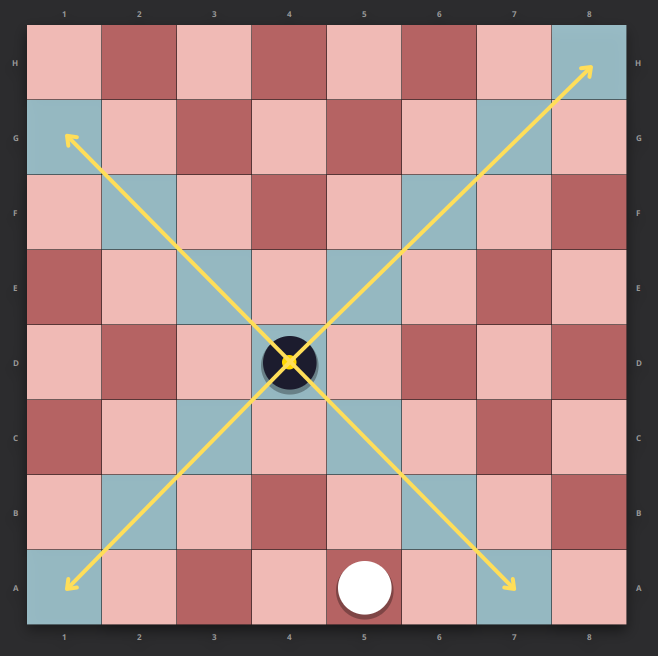
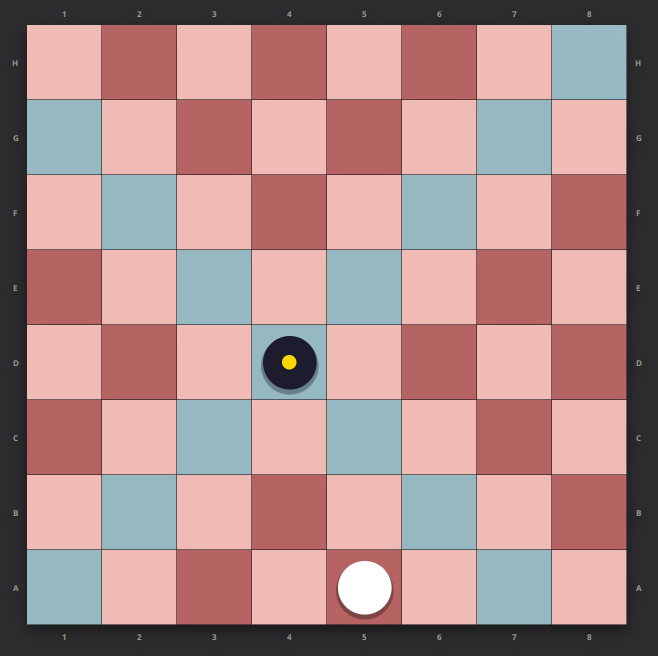
report / corrected first section

diff --git a/pdp/02-final/report.tex b/pdp/02-final/report.tex
@@ -46,13 +46,26 @@
 
 \section{Contexte et objectifs du projet}
 
-Le projet a pour objectif de concevoir et développer un logiciel permettant de jouer au jeu de
-dames conformément aux règles officielles. Le programme doit permettre à deux joueurs de
-s'affronter sur un damier, soit en mode local, soit à distance via un réseau.
+\subsection{Historique}
 
-Le logiciel garantit le respect strict des règles du jeu tout en proposant une expérience
-utilisateur claire, robuste et extensible. Il s'inscrit dans une démarche de développement
-logiciel complète, intégrant la qualité du code, la documentation, les tests et les performances.
+Le jeu de dames est l'un des plus anciens jeux de plateau stratégiques, dont les origines remontent à plusieurs millénaires dans les civilisations méditerranéennes. 
+Perfectionné au fil des siècles, il a acquis ses règles modernes en Europe au cours du Moyen-Âge et fait aujourd'hui l'objet de compétitions internationales officielles régies par la Fédération Mondiale du Jeu de Dames (FMJD).
+
+\subsection{Présentation du jeu}
+Le jeu de dames est un jeu de stratégie abstraite opposant deux joueurs sur un plateau quadrillé. 
+Chaque joueur manœuvre ses pièces en diagonale dans le but de capturer l'intégralité des pièces 
+adverses ou de les immobiliser. Sa simplicité d'accès contraste avec la profondeur tactique qu'il 
+offre : la gestion des prises obligatoires, les enchaînements de captures multiples et la promotion 
+des pions en dames confèrent au jeu une richesse stratégique appréciée aussi bien des joueurs 
+occasionnels que des compétiteurs de haut niveau.
+
+\subsection{Objectifs du projet}
+
+Le projet a pour objectif de concevoir et développer un logiciel permettant de jouer au jeu de dames conformément aux règles officielles. 
+Le programme doit permettre à deux joueurs de s'affronter sur un damier, soit en mode local, soit à distance via un réseau.
+
+Le logiciel garantit le respect strict des règles du jeu tout en proposant une expérience utilisateur claire, robuste et extensible. 
+Il s'inscrit dans une démarche de développement logiciel complète, intégrant la qualité du code, la documentation, les tests et les performances.
 
 \subsection{Variantes supportées}
 \label{sec:variantes}
@@ -62,6 +75,8 @@ une option de configuration du plateau. Le style anglo-saxon, appelé Draughts, 
 chaque joueur disposant de 12 pions. Le jeu de dames international adopte quant à lui un plateau de 10×10, 
 avec 20 pions par joueur. Enfin, les dames canadiennes étendent encore la surface de jeu avec un plateau de 12×12, 
 portant le nombre de pions à 30 par joueur.
+
+\noindent\textit{Les images suivantes ont été obtenues à l'aide de notre implémentation. }
 
 \begin{figure}[h]
     \centering
@@ -116,75 +131,78 @@ aussi bien vers l'avant que vers l'arrière.
 \end{figure}
 \FloatBarrier
 
+\noindent\textit{Les cases surlignées en bleu indiquent les déplacements possibles de la pièce sélectionnée. }
+
 \subsubsection{La prise par un pion}
 \label{sec:prise-pion}
-
 Un pion capture un pion adverse en sautant par-dessus lui pour se poser sur la case vide
 située immédiatement derrière. La prise peut s'effectuer vers l'avant comme vers l'arrière.
-
 \textbf{La prise est obligatoire.} De plus, si après une capture le pion se retrouve à nouveau
 en position de prise, il doit continuer jusqu'à épuisement des captures possibles (rafle). Les
 pions capturés sont retirés du plateau uniquement à l'issue complète de la rafle, et non au fur
-et à mesure.
+et à mesure. La figure~\ref{fig:prise-pion} illustre le mécanisme de prise simple, tandis que 
+la figure~\ref{fig:rafle} montre un exemple de rafle enchaînant plusieurs captures successives.
 
-\begin{figure} [h]
-    \centering
-    \begin{minipage}{0.3\textwidth}
-        \centering
-        \includegraphics[width=\textwidth]{img_report/pawn_capture.png}
-        \caption{Prise d'un pion}
-    \end{minipage}
-    \hspace{1cm}
-    \begin{minipage}{0.3\textwidth}
-        \centering
-        \includegraphics[width=\textwidth]{img_report/rafle.png}
-        \caption{Rafle}
-    \end{minipage}
+\begin{figure}[h]
+\centering
+  \begin{minipage}{0.3\textwidth}
+  \centering
+  \includegraphics[width=\textwidth]{img_report/pawn_capture.png}
+  \caption{Prise d'un pion}
+  \label{fig:prise-pion}
+  \end{minipage}
+\hspace{1cm}
+  \begin{minipage}{0.3\textwidth}
+  \centering
+  \includegraphics[width=\textwidth]{img_report/rafle.png}
+  \caption{Rafle}
+  \label{fig:rafle}
+  \end{minipage}
 \end{figure}
 \FloatBarrier
 
 \subsubsection{La prise majoritaire}
 \label{sec:prise-majoritaire}
-
 Lorsque plusieurs séquences de capture sont possibles, le joueur est tenu de choisir celle qui
-capture le plus grand nombre de pièces, quel que soit leur rang. Ainsi, une séquence permettant
-de prendre deux pions est prioritaire sur la prise d'une dame isolée.
-
-\begin{figure} [h]
-    \centering
-    \begin{minipage}{0.3\textwidth}
-        \centering
-        \includegraphics[width=\textwidth]{img_report/majority_capture.png}
-        \caption{Prise majoritaire~: 2 pions vs 1 dame}
-    \end{minipage}
-\end{figure}
-\FloatBarrier
+capture le plus grand nombre de pièces, quel que soit leur rang. Ainsi, comme l'illustre la 
+figure~\ref{fig:prise-majoritaire}, une séquence permettant de prendre deux pions est prioritaire 
+sur la prise d'une dame isolée.
 
 \subsubsection{La prise par la dame}
 \label{sec:prise-dame}
-
 Grâce à son amplitude de mouvement, la dame dispose de capacités de capture étendues. Elle doit
 prendre tout pion situé sur sa diagonale dès lors qu'une case libre est disponible
-immédiatement après. On ne peut passer qu'une seule fois sur un même pion, mais on peut traverser deux
-fois la même case.
+immédiatement après. On ne peut passer qu'une seule fois sur un même pion, mais on peut traverser 
+deux fois la même case. La figure~\ref{fig:prise-dame} présente un exemple de prise par la dame, 
+et la figure~\ref{fig:prise-dame-case} illustre le cas particulier où la dame repasse sur une 
+case déjà traversée au cours de sa rafle.
 
-\begin{figure} [h]
-    \centering
-    \begin{minipage}{0.3\textwidth}
-        \centering
-        \includegraphics[width=\textwidth]{img_report/capture_checker.png}
-        \caption{Prise par la dame}
-    \end{minipage}
-    \hspace{1cm}
-    \begin{minipage}{0.3\textwidth}
-        \centering
-        \includegraphics[width=\textwidth]{img_report/capture_checker_2.png}
-        \caption{Prise par la dame avec passage sur une même case}
-    \end{minipage}
+\begin{figure}[h]
+\centering
+  \begin{minipage}{0.3\textwidth}
+  \centering
+    \includegraphics[width=\textwidth]{img_report/capture_checker.png}
+    \caption{Prise par la dame}
+    \label{fig:prise-dame}
+  \end{minipage}
+  \hfill
+  \begin{minipage}{0.3\textwidth}
+  \centering
+    \includegraphics[width=\textwidth]{img_report/capture_checker_2.png}
+    \caption{Prise par la dame avec passage sur une même case}
+    \label{fig:prise-dame-case}
+  \end{minipage}
+  \hfill
+  \begin{minipage}{0.3\textwidth}
+  \centering
+    \includegraphics[width=\textwidth]{img_report/majority_capture.png}
+    \caption{Prise majoritaire~: 2 pions vs 1 dame}
+    \label{fig:prise-majoritaire}
+  \end{minipage}
 \end{figure}
 \FloatBarrier
 
-\subsection{Conditions de fin de partie}
+\subsubsection{Conditions de fin de partie}
 
 Une partie prend fin dans l'un des cas suivants :
 
@@ -853,49 +871,97 @@ immuables. Enfin, la \texttt{GameControllerFactory}, interface fonctionnelle,
 permet d'instancier un contrôleur de jeu isolé pour chaque session, garantissant
 l'indépendance des états de parties concurrentes.
 
-\section{Intelligence Artificielle}
+\subsection{Module Intelligence Artificielle}
+\label{sec:ai}
 
-\subsection{SimpleEvaluator}
+\sloppy Le module IA repose sur une séparation nette entre trois responsabilités. D'abord, la classe abstraite \texttt{Ai} fournit l'ossature commune : elle valide les paramètres, crée une copie du plateau de recherche, instancie un \texttt{ManagerUndoRedo} dédié et délègue le calcul du meilleur coup aux algorithmes concrets. Ensuite, \texttt{GameCheckers} agit comme point d'assemblage en appelant \texttt{Ai.buildAi(cfg, ...)} et \texttt{Ai.buildEvaluator(cfg)} à partir de la configuration courante. Enfin, \texttt{AiPlayer} encapsule l'algorithme et l'évaluateur pour exposer une seule méthode \texttt{getBestMove(...)}, ce qui évite de disperser la logique de décision dans le reste du moteur.
 
-La classe \texttt{SimpleEvaluator} peut être vue comme une balance très basique : elle compte simplement
-le "matériel" sur le plateau, c'est-à-dire combien de pions et de dames possède chaque joueur.
-Si les blancs ont plus de pièces fortes, le score monte ; si les noirs sont avantagés, le score baisse.
-Cette approche est facile à comprendre, rapide, mais elle ne tient pas compte de la position stratégique des pièces.
+Les classes d'évaluation \texttt{SimpleEvaluator}, \texttt{AdvancedEvaluator} et \texttt{MaxEvaluator} implémentent la même interface \texttt{Evaluator} mais avec des heuristiques de coût croissant. Elles sont consommées par les algorithmes de recherche pour donner une valeur aux feuilles de l'arbre. De son côté, \texttt{Mcts} n'utilise pas cette heuristique dans sa sélection principale, mais il reste compatible avec la même signature afin de pouvoir être instancié par le même pipeline que les autres IA.
 
-\subsection{AdvancedEvaluator}
+\begin{figure}[h]
+  \centering
+  \makebox[\textwidth][c]{
+    \begin{tikzpicture}[scale=0.8, transform shape, node distance=1.1cm and 1.4cm, >=Stealth]
+      \node[draw, rounded corners, align=center, fill=gray!10, minimum width=3.2cm] (cfg)
+      {Configuration\\\scriptsize modes, profondeur, temps, scoring};
 
-La classe \texttt{AdvancedEvaluator} reprend cette idée de balance, mais ajoute une intuition naturelle du jeu
-de dames : un pion qui avance vers la promotion devient plus dangereux. En pratique, cette classe récompense
-les pions qui progressent vers la dernière rangée. Elle reste simple, mais elle joue déjà plus "intelligemment"
-qu'un simple comptage de pièces.
+      \node[draw, rounded corners, align=center, fill=blue!10, right=of cfg, minimum width=3.0cm] (game)
+      {GameCheckers\\\scriptsize instanciation};
 
-\subsection{MaxEvaluator}
+      \node[draw, rounded corners, align=center, fill=blue!10, right=of game, minimum width=2.8cm] (player)
+      {AiPlayer\\\scriptsize delegation};
 
-La classe \texttt{MaxEvaluator} va encore plus loin. En plus du matériel et de l'avancement, elle valorise
-le contrôle du centre du damier et la mobilité (le nombre de coups légaux disponibles). Intuitivement,
-un joueur qui contrôle le centre et qui garde beaucoup d'options est souvent en meilleure posture.
-Cette évaluation est plus riche et souvent plus précise, mais elle demande davantage de calcul.
+      \node[draw, rounded corners, align=center, fill=green!12, below=of player, minimum width=2.8cm] (ai)
+      {Ai\\\scriptsize getBestMove()};
 
-\subsection{MinMax}
+      \node[draw, rounded corners, align=center, fill=orange!14, right=of ai, minimum width=3.4cm] (search)
+      {MinMax / AlphaBeta\\IterativeDeepening / Mcts};
 
-La classe \texttt{MinMax} représente la logique "je joue un coup, puis j'anticipe la meilleure réponse adverse".
-L'algorithme explore un arbre de possibilités en alternant les deux joueurs : il suppose que l'adversaire joue bien,
-et il cherche le coup qui reste le plus favorable malgré cela. Cette méthode donne des décisions solides,
-mais son coût augmente rapidement quand on approfondit la recherche.
+      \node[draw, rounded corners, align=center, fill=yellow!18, below=of search, minimum width=3.4cm] (eval)
+      {Evaluator\\\scriptsize Simple / Advanced / Max};
 
-\subsection{MinMaxAlphaBeta}
+      \node[draw, rounded corners, align=center, fill=red!12, right=of search, minimum width=3.6cm] (ml)
+      {SelectionMode\\\scriptsize UCT / ML\\LogisticRegressionTrainer};
 
-La classe \texttt{MinMaxAlphaBeta} suit exactement la même philosophie que MinMax, mais elle évite de calculer
-des branches qui ne pourront de toute façon pas changer la décision finale. On peut l'imaginer comme une lecture
-intelligente d'un arbre où l'on saute les chapitres déjà "perdus d'avance". Le résultat reste de même qualité,
-mais le temps de calcul peut être fortement réduit.
+      \draw[-{Stealth}] (cfg) -- (game);
+      
+      % On trace la flèche normalement
+      \draw[-{Stealth}] (game) -- (player);
+      
+      % On ajoute le texte spécifiquement à droite du noeud player
+      \node[right=0.2cm of player, font=\scriptsize, align=left, text=pdp-teal800] {setAlgorithm /\\ setEvaluator};
+      
+      \draw[-{Stealth}] (player) -- node[right, font=\scriptsize]{d\'el\'egation} (ai);
+      \draw[-{Stealth}] (ai) -- (search);
+      \draw[-{Stealth}, dashed] (search) -- node[right, font=\scriptsize]{heuristique} (eval);
+      \draw[-{Stealth}] (search) -- (ml);
+    \end{tikzpicture}
+  }
+  \caption{Cha\^ine de d\'ependance du module Intelligence Artificielle}
+  \label{fig:ia-dependencies}
+\end{figure}
 
-\subsection{IterativeDeepening}
+\subsubsection{SimpleEvaluator}
 
-La classe \texttt{IterativeDeepening} applique une stratégie très pratique en contexte réel : elle commence
-par une recherche peu profonde (rapide), puis recommence avec une profondeur plus grande, et ainsi de suite,
-jusqu'à épuisement du temps autorisé. L'avantage est qu'on dispose toujours d'un coup jouable, même si la recherche
-complète la plus profonde n'a pas le temps de se terminer.
+\texttt{SimpleEvaluator} est l'heuristique la plus légère du module. Son implémentation parcourt toutes les cases actives du plateau via \texttt{board.getIndexMax()} et interroge directement les bitboards avec \texttt{isBitWhitePawn}, \texttt{isBitBlackPawn}, \texttt{isBitWhiteChecker} et \texttt{isBitBlackChecker}. Chaque pion vaut 100 points et chaque dame 350 points ; le score final est positif si la position favorise les blancs et négatif si elle favorise les noirs.
+
+Cette classe n'a pas de dépendance métier lourde : elle ne consulte ni l'historique, ni les coups légaux, ni le système d'annulation. Elle sert donc de base de comparaison pour les recherches MinMax et comme option de configuration quand on veut une évaluation rapide et déterministe.
+
+\subsubsection{AdvancedEvaluator}
+
+\texttt{AdvancedEvaluator} reprend la logique matérielle de \texttt{SimpleEvaluator}, mais ajoute un bonus de progression pour les pions. Pour calculer ce bonus, la classe reconstruit la ligne de chaque case à partir de l'indice courant et de la taille du plateau, puis ajoute ou retire un bonus d'avancement proportionnel à la distance parcourue vers la promotion. Les dames gardent leur valeur fixe, ce qui permet de conserver une heuristique lisible tout en intégrant une notion de dynamique de partie.
+
+En pratique, cette classe est utile pour les variantes où l'on veut un MinMax un peu plus sensible au développement des pions sans payer le coût des calculs de mobilité. Elle reste autonome vis-à-vis des autres classes du moteur et ne dépend que de \texttt{Board} pour récupérer la géométrie du plateau.
+
+\subsubsection{MaxEvaluator}
+
+\texttt{MaxEvaluator} est l'heuristique la plus coûteuse du trio. Elle combine d'abord le comptage matériel et le bonus d'avancement, puis ajoute deux critères stratégiques supplémentaires : le contrôle du centre et la mobilité. Le centre est détecté par la méthode privée \texttt{isInCenter(...)} à partir des coordonnées ligne/colonne, tandis que la mobilité est évaluée en appelant \texttt{board.getWhiteValidMoves()} et \texttt{board.getBlackValidMoves()}.
+
+Cette classe introduit donc une dépendance forte vers le moteur de génération de coups de \texttt{Board}. Contrairement aux deux autres évaluateurs, elle peut déclencher une exploration de coups complète lors du calcul du score, ce qui la rend plus informative mais aussi plus lente. C'est précisément pour cela qu'elle est utilisée comme heuristique "maximale" dans la configuration MinMax.
+
+\subsubsection{MinMax}
+
+\texttt{MinMax} implémente la stratégie classique de recherche adversariale. Le point d'entrée réel passe par \texttt{Ai.getBestMove(...)}, qui travaille sur une copie du plateau et crée un \texttt{ManagerUndoRedo} dédié à l'exploration. L'algorithme parcourt ensuite l'arbre de jeu en alternant les fonctions \texttt{minMax(...)} et \texttt{maxMin(...)} : chaque coup est appliqué avec \texttt{board.applyMove(move)}, enregistré dans \texttt{undo.registerMove(...)} puis annulé immédiatement après l'évaluation de la branche.
+
+La classe dépend donc à la fois de \texttt{Board} pour générer les coups légaux, de \texttt{ManagerUndoRedo} pour revenir en arrière, et de \texttt{Evaluator} pour scorer les feuilles. La gestion du temps repose sur une exception interne \texttt{TimeExceededException} qui interrompt proprement la récursion si le budget est dépassé. Le résultat est ensuite renvoyé sous forme d'un \texttt{Move} détaché de l'arbre de recherche afin de ne pas propager d'état interne vers la partie réelle.
+
+\subsubsection{MinMaxAlphaBeta}
+
+\texttt{MinMaxAlphaBeta} reprend exactement le même contrat que \texttt{MinMax}, mais ajoute deux bornes locales, \(\alpha\) et \(\beta\), dans les méthodes \texttt{maxValue(...)} et \texttt{minValue(...)}. Après chaque enfant évalué, la borne adaptée est mise à jour ; dès que \(\beta \leq \alpha\), la boucle est interrompue et les frères restants sont ignorés. La qualité du résultat reste identique à celle de MinMax, mais l'arbre visité peut être très réduit lorsque l'ordre des coups est favorable.
+
+Du point de vue des dépendances, la classe reste branchée sur les mêmes briques que \texttt{MinMax} : \texttt{Board}, \texttt{ManagerUndoRedo}, \texttt{Evaluator} et \texttt{PlayerColor}. La différence est purement algorithmique, ce qui permet à \texttt{GameCheckers} de la substituer à MinMax sans changer le reste du moteur.
+
+\subsubsection{IterativeDeepening}
+
+\texttt{IterativeDeepening} n'implémente pas son propre arbre de recherche ; elle encapsule un \texttt{MinMax} interne et relance le calcul pour des profondeurs croissantes, de 1 jusqu'à \texttt{maxDepth}. À chaque itération terminée, le meilleur coup courant remplace le précédent. Si le temps expire au milieu d'une profondeur, la classe conserve simplement le dernier coup entièrement validé.
+
+Cette organisation fait de la classe un adaptateur temporel plutôt qu'un nouvel algorithme de décision. Sa dépendance principale est donc le \texttt{MinMax} embarqué, auquel elle délègue toute l'exploration. Le bénéfice est double : on garantit toujours une réponse jouable et on améliore progressivement la qualité de la décision tant que le budget temps le permet.
+
+\subsubsection{Relations entre les classes}
+
+La figure~\ref{fig:ia-dependencies} résume le chemin suivi lors d'une décision. \texttt{GameCheckers} choisit l'algorithme et l'évaluateur à partir de la configuration, \texttt{AiPlayer} les encapsule, puis \texttt{Ai} orchestre la recherche sur une copie du plateau. Les algorithmes MinMax dérivés consomment ensuite l'évaluateur choisi, tandis que \texttt{Mcts} conserve la même interface mais s'appuie sur \texttt{SelectionMode} pour basculer entre UCT et la sélection guidée par apprentissage automatique.
+
+Le cas MCTS introduit une chaîne de dépendances supplémentaire : la sélection \texttt{ML} lit les poids produits par \texttt{LogisticRegressionTrainer}, lesquels sont sauvegardés dans \texttt{ml\_weights.txt} après l'entraînement supervisé. Le module d'apprentissage reste donc découplé du moteur de recherche : l'entraînement écrit un fichier de paramètres, et MCTS le charge uniquement lorsqu'on active ce mode de sélection.
 
 \section{Complexité}
 
@@ -903,7 +969,7 @@ complète la plus profonde n'a pas le temps de se terminer.
 
 \subsubsection{Hypothèses et notations}
 
-Dans cette section, nous analysons la complexité temporelle des méthodes principales des classes IA fournies.
+Dans cette section, nous analysons la complexité temporelle des méthodes principales des classes IA fournies\ref{sec:ai}.
 La variable $n$ désigne le nombre de cases actives du plateau (typiquement \(32\), \(50\) ou \(72\)), $b$ représente
 le facteur de branchement moyen (nombre de coups légaux par position), et $d$ la profondeur maximale de recherche.
 Nous distinguons la complexité \textit{propre} d'une méthode de recherche (nombre de n\oe{}uds explorés) du coût réel,
